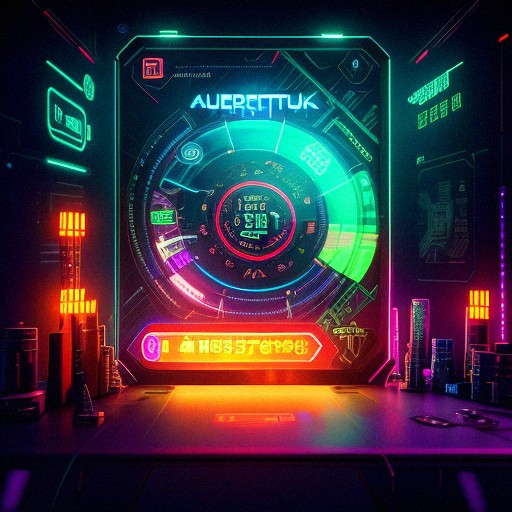
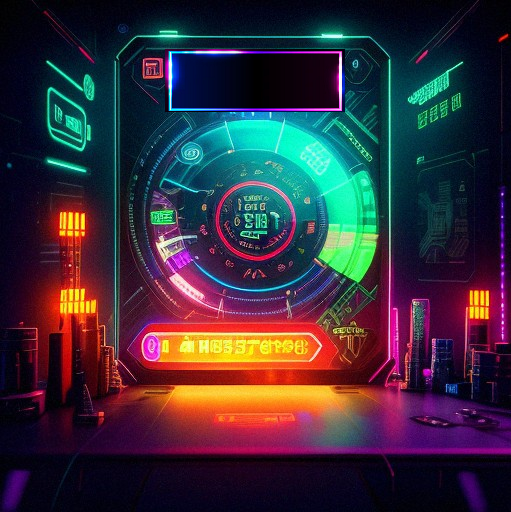
Improve stats menu

diff --git a/TriviaClient/TriviaClient/StatsMenu.xaml b/TriviaClient/TriviaClient/StatsMenu.xaml
@@ -5,7 +5,7 @@
         xmlns:mc="http://schemas.openxmlformats.org/markup-compatibility/2006"
         xmlns:local="clr-namespace:TriviaClient"
         mc:Ignorable="d"
-        Title="[Trivia] Statistics Menu" Height="450" Width="800">
+        Title="[Trivia] Statistics Menu" Height="450" Width="400">
     <Window.Background>
         <ImageBrush ImageSource="../Resources/stats_menu.png"/>
     </Window.Background>
@@ -30,7 +30,7 @@
             </Grid.ColumnDefinitions>
 
             <StackPanel Grid.Row="0" Grid.Column="0" Margin="5,5,5,5" Orientation="Vertical">
-                <Label Content="Personal Stats" Foreground="Aqua"  HorizontalAlignment="Center" FontSize="22" FontWeight="ExtraBold" Margin="10,-10,10,0" />
+                <Label Content="Stats Menu" Foreground="Aqua"  HorizontalAlignment="Center" FontSize="22" FontWeight="ExtraBold" Margin="10,-5,10,0" />
             </StackPanel>
 
         </Grid>

diff --git a/TriviaClient/TriviaClient/MainWindow.xaml b/TriviaClient/TriviaClient/MainWindow.xaml
@@ -41,6 +41,7 @@
                 <Label Name="HelloLabel" Content="" Foreground="Aqua" HorizontalAlignment="Center" FontSize="28" FontWeight="ExtraBold" Margin="10" />
                 <Button Name="LoginButton" Content="Log In" Width="100" Margin="0,30,0,10" Click="LoginButton_Click"/>
                 <Button Name="SignUpButton" Content="Sign Up" Width="100" Margin="0,10,0,10" Click="SignUpButton_Click"/>
+                <Button Name="StatsMenuButton" Content="Stats Menu" Width="100" Margin="0,10,0,10" Click="StatsMenuButton_Click"/>
                 <Button Name="LogOutButton" Content="Log Out" Width="100" Margin="0,10,0,10" Click="LogOutButton_Click" />
             </StackPanel>
 

diff --git a/TriviaClient/TriviaClient/MainWindow.xaml.cs b/TriviaClient/TriviaClient/MainWindow.xaml.cs
@@ -20,6 +20,9 @@ namespace TriviaClient
     {
         public LogInScreen logInScreen;
         public SignUpScreen signUpScreen;
+        public StatsMenu statsMenu;
+
+
         public bool isUserLogged;
         public string username;
         public TcpClient client;
@@ -80,6 +83,12 @@ namespace TriviaClient
             this.isUserLogged = false;
             this.username = "";
             this.HelloLabel.Content = "";
+        }
+
+        private void StatsMenuButton_Click(object sender, RoutedEventArgs e)
+        {
+            this.statsMenu = new StatsMenu();
+            this.statsMenu.Show();
         }
     }
 }
